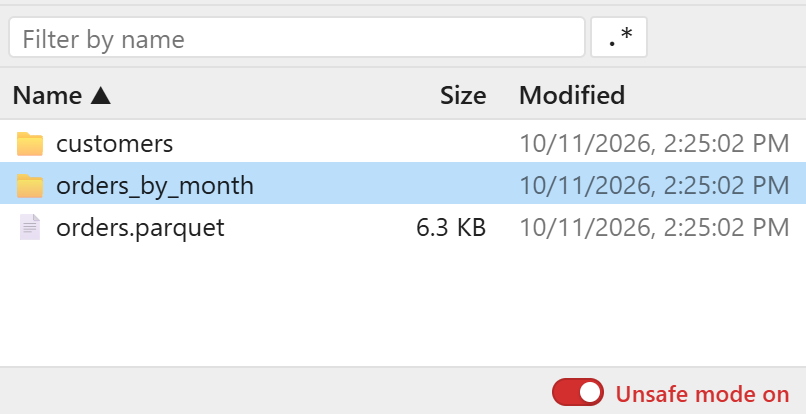
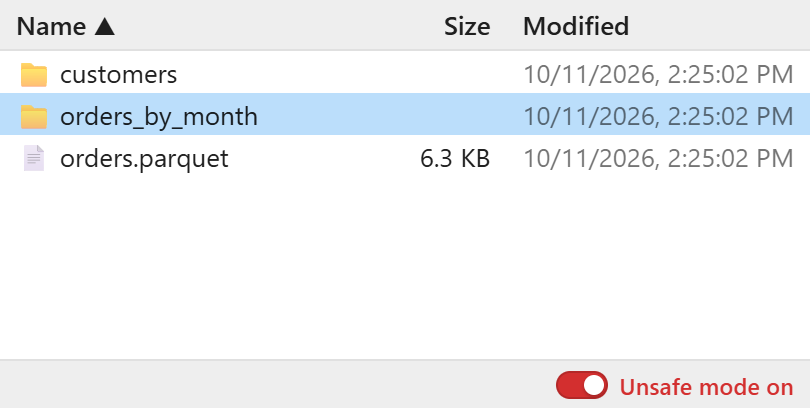
List filter in the toolbar, cleared when the new folder's items arrive
The tree's filter only searched the folders loaded so far, so it missed
folders not yet expanded; it is removed. The list's filter and pager move
to the toolbar: storage, buttons, path, filter, pager, Preview.

The filter was cleared on clicking a folder, which showed the previous
folder's items unfiltered until the new listing came, a long moment for a
large folder. It is now cleared, and the page reset, when the list first
renders another folder's listing.

The toolbar wraps when narrow, and a long path is cut at its start, so the
folder shown stays visible next to the filter.

Claude-Session: https://claude.ai/code/session_01HAwtBQoU26mZV3X6NRDYj5

diff --git a/src/jupyter_storage_explorer/static/storage_explorer.js b/src/jupyter_storage_explorer/static/storage_explorer.js
@@ -222,12 +222,9 @@ function render({ model, el }) {
   );
   // The status bar: messages on the left (hidden with the preview panel open), the switch on the right.
   const statusBarEl = h("div", { className: "jse-status-bar" }, statusEl, unsafeEl);
-  // Tree and list; its height is the `height` trait until resized by dragging.
-  // Above each pane, a bar: a filter for the tree's folders; for the list, a
-  // filter and the pager (pages of PAGE_SIZE items; see renderList).
+  // The list's filter and pager (pages of PAGE_SIZE items; see renderList), in the toolbar.
   const PAGE_SIZE = 100;
   let listPage = 0;
-  const treeFilter = createFilter({ placeholder: "Filter folders", onChange: () => renderTree() });
   // Set while typing in the list's filter: in large folders, the kernel is
   // then asked once typing pauses (see renderList).
   let filterTyped = false;
@@ -243,13 +240,8 @@ function render({ model, el }) {
   const nextPageBtn = h("button", { className: "jse-btn", title: "Next page", textContent: "▶" });
   const pageLabel = h("span", { className: "jse-page-label" });
   const pagerEl = h("div", { className: "jse-pager", hidden: true }, prevPageBtn, pageLabel, nextPageBtn);
-  // Each pane is a column, its bar on top, so the bars follow the tree's width when it is resized.
-  const panesEl = h(
-    "div",
-    { className: "jse-panes" },
-    h("div", { className: "jse-pane jse-tree-pane" }, h("div", { className: "jse-pane-bar" }, treeFilter.el), treeEl),
-    h("div", { className: "jse-pane jse-list-pane" }, h("div", { className: "jse-pane-bar" }, listFilter.el, pagerEl), listEl),
-  );
+  // Tree and list; its height is the `height` trait until resized by dragging.
+  const panesEl = h("div", { className: "jse-panes" }, treeEl, listEl);
   // Bottom edge of the widget: resizes the last area (preview panel or tree and list).
   const grip = h("div", { className: "jse-grip", title: "Drag to resize" });
   // Preview panel below the tree and list; the splitter on its top edge moves
@@ -325,7 +317,7 @@ function render({ model, el }) {
   // each, above the status bar; see "Jobs" below.
   const jobsEl = h("div", { className: "jse-jobs", hidden: true });
   el.replaceChildren(
-    h("div", { className: "jse-toolbar" }, fsSelect, bookmarkBtn, upBtn, refreshBtn, pathEl, previewBtn),
+    h("div", { className: "jse-toolbar" }, fsSelect, bookmarkBtn, upBtn, refreshBtn, pathEl, listFilter.el, pagerEl, previewBtn),
     panesEl,
     previewEl,
     jobsEl,
@@ -1693,37 +1685,9 @@ function render({ model, el }) {
       expandRoot = false;
     }
 
-    // While the folder filter is active, of the folders loaded so far: those
-    // whose names match, and those leading to them (shown open), so a match
-    // deep down stays reachable; the root and the folder shown always stay.
-    let shown = null;
-    let opened = null;
-    if (treeFilter.active()) {
-      shown = new Set([root]);
-      opened = new Set();
-      const visit = (path) => {
-        let found = false;
-        for (const child of tree[path] ?? []) {
-          const below = visit(child.path);
-          if (below) opened.add(child.path);
-          if (below || treeFilter.test(child.name)) {
-            shown.add(child.path);
-            found = true;
-          }
-        }
-        return found;
-      };
-      if (visit(root)) opened.add(root);
-      const chain = ancestors(current);
-      chain.forEach((path, i) => {
-        shown.add(path);
-        if (i < chain.length - 1) opened.add(path);
-      });
-    }
-
     function node(dir, depth) {
       const children = tree[dir.path];
-      const isOpen = expanded.has(dir.path) || Boolean(opened?.has(dir.path));
+      const isOpen = expanded.has(dir.path);
       if (isOpen) requestChildren(dir.path);
 
       const twisty = h("span", {
@@ -1746,25 +1710,18 @@ function render({ model, el }) {
       row.dataset.dropDir = dir.path; // files dropped here are uploaded into this folder
       // For styling by depth, e.g. [data-depth="1"]: 0 is the root, 1 a top-level folder.
       row.dataset.depth = depth;
-      // Clicking a folder ends the search for it: the whole tree shows again.
-      row.addEventListener("click", () => {
-        treeFilter.clear();
-        navigate(dir.path);
-      });
+      row.addEventListener("click", () => navigate(dir.path));
       row.addEventListener("contextmenu", (ev) => showMenu(ev, itemMenu([{ ...dir, type: "directory" }], false)));
 
       const wrap = h("div", {}, row);
       if (isOpen && children) {
-        for (const child of children) if (!shown || shown.has(child.path)) wrap.append(node(child, depth + 1));
+        for (const child of children) wrap.append(node(child, depth + 1));
       }
       return wrap;
     }
 
     // The root's menu offers no previews, code or copying (no_url).
     treeEl.replaceChildren(node({ name: treeRootLabel(root), path: root, no_url: true }, 0));
-    if (shown && shown.size === ancestors(current).length) {
-      treeEl.append(h("div", { className: "jse-placeholder jse-tree-note", textContent: "No loaded folders match" }));
-    }
     treeEl.querySelector(".jse-active")?.scrollIntoView({ block: "nearest" });
   }
 
@@ -1779,14 +1736,17 @@ function render({ model, el }) {
 
   function renderPath() {
     const chain = ancestors(model.get("_current_dir"));
-    pathEl.replaceChildren();
+    // In a span of its own, left to right: pathEl is right to left, so that a
+    // path too long is cut at its start, and the current folder stays in view.
+    const crumbs = h("span", { className: "jse-crumbs" });
     chain.forEach((path, i) => {
-      if (i > 0) pathEl.append(h("span", { className: "jse-sep", textContent: "/" }));
+      if (i > 0) crumbs.append(h("span", { className: "jse-sep", textContent: "/" }));
       const name = i === 0 ? rootLabel(path) : path.slice(path.lastIndexOf("/") + 1);
       const crumb = h("span", { className: "jse-crumb", textContent: name, title: path });
       crumb.addEventListener("click", () => navigate(path));
-      pathEl.append(crumb);
+      crumbs.append(crumb);
     });
+    pathEl.replaceChildren(crumbs);
     upBtn.disabled = chain.length < 2;
   }
 
@@ -1941,7 +1901,19 @@ function render({ model, el }) {
     }
   }
 
+  // The folder whose items the list last showed, to tell when another's arrive.
+  let listShowsDir = null;
+
   function renderList() {
+    // Another folder's items are shown unfiltered, from the first page. Done
+    // when they arrive, not on clicking the folder: the previous folder's
+    // items would show unfiltered until then, a long wait for a large folder.
+    const dir = model.get("_listing").dir;
+    if (dir !== listShowsDir) {
+      listShowsDir = dir;
+      listPage = 0;
+      listFilter.clear(false);
+    }
     headRow.replaceChildren(
       ...columns.map((col) => {
         const arrow = sort.key === col.key ? (sort.asc ? " ▲" : " ▼") : "";
@@ -2304,9 +2276,6 @@ function render({ model, el }) {
     return (dy) => (area.style.height = `${Math.max(MIN_AREA_HEIGHT, start + dy)}px`);
   });
 
-  // The folder the list was last shown for, to tell when another is shown.
-  let listShowsDir = null;
-
   function onDirChange() {
     // Only folders under the root belong to this filesystem's tree.
     if (model.get("_current_dir").startsWith(model.get("_root"))) {
@@ -2314,17 +2283,6 @@ function render({ model, el }) {
     }
     renderTree();
     renderPath();
-    // Another folder is shown unfiltered (clearing the filter renders the
-    // list), from its first page (its entries may have been drawn already).
-    const dir = model.get("_current_dir");
-    if (dir !== listShowsDir) {
-      listShowsDir = dir;
-      listFilter.clear();
-    }
-    if (listPage) {
-      listPage = 0;
-      renderList();
-    }
     renderBookmarkBtn();
     reportView();
   }

diff --git a/src/jupyter_storage_explorer/static/storage_explorer.css b/src/jupyter_storage_explorer/static/storage_explorer.css
@@ -1,7 +1,9 @@
 /* StorageExplorer: toolbar, tree and list, preview panel, menus and editor.
    Joined after common.css and query.css (see _static.py). */
+/* Wraps when narrow: the filter, pager and Preview go to a second line. */
 .jse-toolbar {
   display: flex;
+  flex-wrap: wrap;
   align-items: center;
   gap: 4px;
   padding: 4px 6px;
@@ -28,13 +30,23 @@
   color: var(--jse-accent);
 }
 
+/* Takes the toolbar's free width; below 120px, the toolbar wraps instead. Right
+   to left, so a long path is cut at its start (…/folder shown); the crumbs
+   themselves are left to right (.jse-crumbs). */
 .jse-path {
-  flex: 1;
+  flex: 1 1 120px;
   min-width: 0;
   margin-left: 6px;
   overflow: hidden;
   white-space: nowrap;
   text-overflow: ellipsis;
+  direction: rtl;
+  text-align: left;
+}
+
+.jse-crumbs {
+  direction: ltr;
+  unicode-bidi: isolate;
 }
 
 .jse-crumb {
@@ -64,41 +76,16 @@
   flex: 1 1 0;
 }
 
-/* Each pane is a column: its bar (filter, and for the list the pager) on top,
-   then the tree or list. The tree's pane is as wide as the tree, which can be
-   resized from its corner. */
-.jse-pane {
-  display: flex;
-  flex-direction: column;
-  min-height: 0;
-}
-
-.jse-tree-pane {
-  flex: none;
-  max-width: 70%;
-  border-right: 1px solid var(--jse-border);
-}
-
-.jse-list-pane {
-  flex: 1;
-  min-width: 0;
-}
-
-.jse-pane-bar {
-  display: flex;
-  align-items: center;
-  gap: 6px;
-  min-height: 26px;
-  padding: 2px 6px;
-  border-bottom: 1px solid var(--jse-border);
-  background: var(--jse-bg-alt);
+/* The list's filter, between the path and the pager: the path takes what is left. */
+.jse-toolbar .jse-filter {
+  flex: 0 1 240px;
+  min-width: 120px;
 }
 
 .jse-pager {
   display: flex;
   align-items: center;
   gap: 4px;
-  margin-left: auto;
   color: var(--jse-fg-muted);
   font-size: 0.9em;
   white-space: nowrap;
@@ -108,13 +95,11 @@
   display: none;
 }
 
-.jse-tree-note {
-  padding: 4px 10px;
-}
-
+/* As wide as set by dragging its corner. */
 .jse-tree {
-  flex: 1;
-  min-height: 0;
+  flex: none;
+  max-width: 70%;
+  border-right: 1px solid var(--jse-border);
   width: 260px;
   min-width: 120px;
   overflow: auto;
@@ -152,7 +137,7 @@
 
 .jse-list {
   flex: 1;
-  min-height: 0;
+  min-width: 0;
   overflow: auto;
 }
 

diff --git a/src/jupyter_storage_explorer/static/common.js b/src/jupyter_storage_explorer/static/common.js
@@ -104,7 +104,7 @@ function createFilter({ placeholder = "Filter", onChange = () => {} } = {}) {
   let test = () => true;
   let active = false;
 
-  function update() {
+  function update(notify = true) {
     const text = input.value;
     clearBtn.hidden = !text;
     input.classList.remove("jse-invalid");
@@ -125,17 +125,18 @@ function createFilter({ placeholder = "Filter", onChange = () => {} } = {}) {
       test = (name) => name.toLowerCase().includes(needle);
       active = true;
     }
-    onChange();
+    if (notify) onChange();
   }
 
-  // Empties the field; onChange() only if it had text.
-  function clear() {
+  // Empties the field; onChange() only if it had text, and `notify` is true
+  // (false when the caller is about to render anyway).
+  function clear(notify = true) {
     if (!input.value) return;
     input.value = "";
-    update();
+    update(notify);
   }
 
-  input.addEventListener("input", update);
+  input.addEventListener("input", () => update());
   input.addEventListener("keydown", (ev) => {
     if (ev.key !== "Escape" || !input.value) return;
     ev.stopPropagation(); // clears the field, rather than closing a dialog or panel

diff --git a/docs/storage-explorer.md b/docs/storage-explorer.md
@@ -3,7 +3,7 @@
 `StorageExplorer` is the file explorer: browse storage, preview files, query tables, and upload, download, move and
 edit files. For installation, see the [README](../README.md).
 
-![StorageExplorer with a JSON Lines file open in the data browser](figs/storage-explorer.png)
+<img src="figs/storage-explorer.png" width="954" alt="StorageExplorer with a JSON Lines file open in the data browser">
 
 - [Storages](#storages)
 - [Using the explorer](#using-the-explorer)
@@ -83,8 +83,8 @@ several items.
 
 ### Filter
 
-Type in the fields above the tree and the list to show names containing the text, or matching a regular expression
-with **.\***. ✕ or Esc clears.
+Type in the field in the toolbar to list only the names containing the text, or matching a regular expression with
+**.\***. ✕ or Esc clears; opening another folder clears it too.
 
 <img src="figs/using-filter.png" width="562" alt="The list filtered with a regular expression">
 
@@ -114,7 +114,7 @@ of files and folders, their total size, and the oldest and newest files.
 Right-click a folder → **Add bookmark**. ☆ lists them; click one to open it, right-click it for Copy URL and Delete
 bookmark.
 
-<img src="figs/using-bookmarks.png" width="334" alt="The bookmarks menu">
+<img src="figs/using-bookmarks.png" width="333" alt="The bookmarks menu">
 
 ### Copy, cut and paste
 
@@ -134,7 +134,7 @@ status bar.
 
 Folder operations need **Unsafe mode**, turned on with the slider in the status bar, for one operation:
 
-<img src="figs/unsafe-mode.png" width="403" alt="The Unsafe mode slider, on, at the right of the status bar">
+<img src="figs/unsafe-mode.png" width="405" alt="The Unsafe mode slider, on, at the right of the status bar">
 
 | Operation              | How                                                                                          |
 |------------------------|----------------------------------------------------------------------------------------------|

diff --git a/CLAUDE.md b/CLAUDE.md
@@ -178,8 +178,9 @@ the kernel sends; selection survives filtering and paging. Folders can hold tens
 (`"urls"`) when copying. It sorts once per listing, not per keystroke. Folders of more than `max_browser_items` are
 handled by the kernel instead (`listing.py`): `_listing` then only gives their size and a version, and the frontend
 asks for pages (`"list"`), filtering the rows shown while it waits; sorting and filters there follow the browser's as
-closely as Python allows (natural order ignoring case and accents; Python's `re`). Filters (tree, list, *Select columns*) use `createFilter`
-in `common.js`: text or a regular expression, always case-insensitive.
+closely as Python allows (natural order ignoring case and accents; Python's `re`). Filters (the list's, in the toolbar; *Select columns*) use
+`createFilter` in `common.js`: text or a regular expression, always case-insensitive. The list's is cleared when
+another folder's listing arrives (`renderList`), not on the click, so the previous folder's items never show unfiltered.
 
 **Formats** (`formats/`). Each `DataFormat` subclass (`base.py`) declares `name`, `label`, `priority`, `extensions` and
 which package sets can read it (`preferred_requirements` for previews and code, `code_only_requirements` such as PySpark

diff --git a/README.md b/README.md
@@ -10,7 +10,7 @@ Browse Amazon S3, Azure Data Lake / Blob Storage, Google Cloud Storage, local di
 Delta Lake tables, CSV, Excel, JSON and other formats; page through, sort and filter tables; get ready-to-run code that
 loads the data into your notebook; and upload, download, move and edit files without leaving JupyterLab.
 
-![StorageExplorer with a JSON Lines file open in the data browser](https://raw.githubusercontent.com/sugibuchi/jupyter-storage-explorer/main/docs/figs/storage-explorer.png)
+<img src="https://raw.githubusercontent.com/sugibuchi/jupyter-storage-explorer/main/docs/figs/storage-explorer.png" width="954" alt="StorageExplorer with a JSON Lines file open in the data browser">
 
 This package also provides the **`DataExplorer`** widget, which lets you browse tabular data in your notebook: any
 dataframe of pandas, polars, Spark, DuckDB and more. Page through, sort and filter it in the widget, then get the
